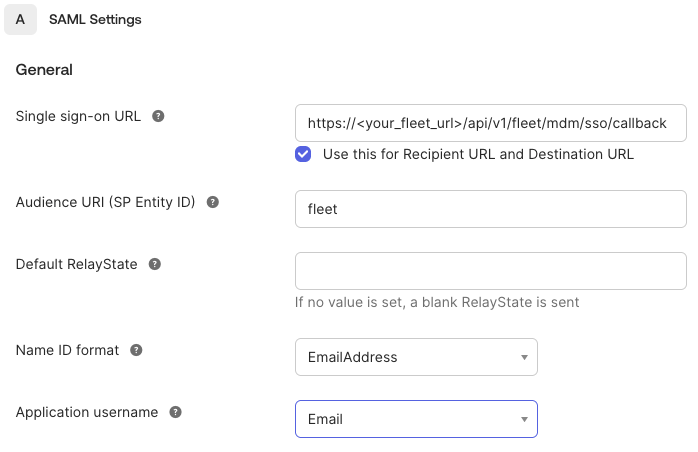
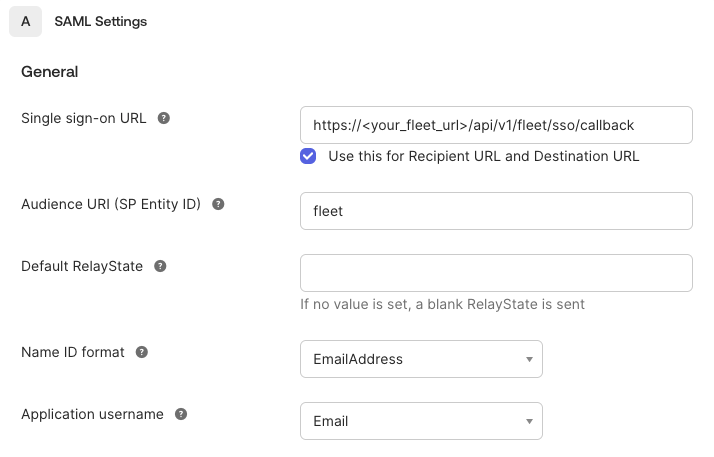
Update SSO configuration paths in documentation (#36894)
Updates from customer call today: 
  - Updated image to reference `Fleet users` callback URL
  - Updated *Fleet configuration* instructions for UI changes

diff --git a/docs/Deploy/single-sign-on-sso.md b/docs/Deploy/single-sign-on-sso.md
@@ -142,9 +142,9 @@ After supplying the above information, your IdP will generate an issuer URI and 
 
 ## Fleet configuration
 
-To configure SSO in Fleet head to **Settings > Integrations > Single sign-on (SSO)**.
+To configure SSO in Fleet head to **Settings > Integrations > Single sign-on (SSO) > Fleet users**.
 
-If you're configuring end user authentication head to **Settings > Integrations > Automatic enrollment > End user authentication**.
+If you're configuring end user authentication head to **Settings > Integrations > Single sign-on (SSO) > End users**.
 
 - **Identity provider name** - A human-readable name of the IdP. This is rendered on the login page.
 
@@ -169,7 +169,7 @@ When JIT user provisioning is turned on, Fleet will automatically create an acco
 By default, accounts created via JIT provisioning are assigned the [Global Observer role](https://fleetdm.com/docs/using-fleet/permissions).
 To assign different roles for accounts created via JIT provisioning, see [Customization of user roles](#customization-of-user-roles) below.
 
-To enable this option, go to **Settings > Integrations > Single sign-on (SSO)** and check "_Create user and sync permissions on login_" or [adjust your config](#sso-settings-enable-jit-provisioning).
+To enable this option, go to **Settings > Integrations > Single sign-on (SSO) > Fleet users** and check "_Create user and sync permissions on login_" or [adjust your config](#sso-settings-enable-jit-provisioning).
 
 For this to work correctly make sure that:
 
